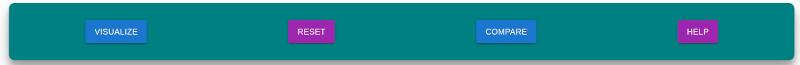
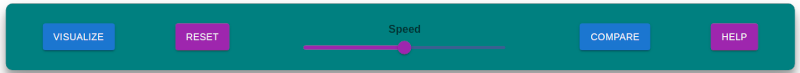
modal update

diff --git a/src/Sorting/CompareSort.tsx b/src/Sorting/CompareSort.tsx
@@ -241,7 +241,7 @@ export default function CompareSort(props: Props){
             return (
                 <div className="modal">
                     <b id='sortModalTitle'>Visualize and more</b>
-                    <p id='sortModalIntro'>You can know visualize, change the array or stop comparing two algorithms together.</p>
+                    <p id='sortModalIntro'>You can know visualize, change the array, change the visualization speed  or stop comparing two algorithms together.</p>
                     <img id='sortHeaderImg' src='/images/sortCompareHeader.png'/>
                     <div id='sortModalButtonContainer'>
                         <Button id="sortModalSkip" color='secondary' onClick={handleModal} variant="contained">Skip Tutorial</Button>

diff --git a/src/Pathfinding/CompareShortestPath.tsx b/src/Pathfinding/CompareShortestPath.tsx
@@ -306,7 +306,7 @@ export default function GridComparator(props:Props){
             return (
                 <div className="modal">
                     <b id='sortModalTitle'>Visualize and more</b>
-                    <p id='sortModalIntro'>You can know visualize, reset the grid or compare two algorithms together.</p>
+                    <p id='sortModalIntro'>You can know visualize, reset the grid, change the visualization speed or compare two algorithms together.</p>
                     <img id='sortHeaderImg' src='/images/pathCompareHeader.png'/>
                     <div id='sortModalButtonContainer'>
                         <Button id="sortModalSkip" color='secondary' onClick={handleModal} variant="contained">Skip Tutorial</Button>

diff --git a/src/Pathfinding/ShortestPath.tsx b/src/Pathfinding/ShortestPath.tsx
@@ -235,7 +235,7 @@ export default function ShortestPath(props: Props){
             return (
                 <div className="modal">
                     <b id='sortModalTitle'>Visualize and more</b>
-                    <p id='sortModalIntro'>You can know visualize, reset the grid or compare two algorithms together.</p>
+                    <p id='sortModalIntro'>You can know visualize, reset the grid, change the visualization speed or compare two algorithms together.</p>
                     <img id='sortHeaderImg' src='/images/pathHeader.png'/>
                     <div id='sortModalButtonContainer'>
                         <Button id="sortModalSkip" color='secondary' onClick={handleModal} variant="contained">Skip Tutorial</Button>

diff --git a/src/Sorting/Sort.tsx b/src/Sorting/Sort.tsx
@@ -156,7 +156,7 @@ export default function Sort(props: Props){
             return (
                 <div className="modal">
                     <b id='sortModalTitle'>Visualize and more</b>
-                    <p id='sortModalIntro'>You can know visualize, change the array or compare two algorithms together.</p>
+                    <p id='sortModalIntro'>You can know visualize, change the array, change the visualization speed or compare two algorithms together.</p>
                     <img id='sortHeaderImg' src='/images/sortHeader.png'/>
                     <div id='sortModalButtonContainer'>
                         <Button id="sortModalSkip" color='secondary' onClick={handleModal} variant="contained">Skip Tutorial</Button>

diff --git a/src/index.css b/src/index.css
@@ -321,4 +321,34 @@ html, body{
     text-align: center;
     padding: 15px;
   }
+  .modal{
+    position: absolute;
+    top: 50%;
+    left: 50%;
+    transform: translate(-50%, -50%);
+    width: 600px;
+    height: 600px;
+    background-color: white;
+    padding: 20px;
+    display: flex;
+    flex-direction: column;
+    text-align: center;
+    align-items: center;
+  }
+}
+@media screen and (max-width: 1000px){
+  .modal{
+    position: absolute;
+    top: 50%;
+    left: 50%;
+    transform: translate(-50%, -50%);
+    width: 600px;
+    height: 600px;
+    background-color: white;
+    padding: 20px;
+    display: flex;
+    flex-direction: column;
+    text-align: center;
+    align-items: center;
+  }
 }
